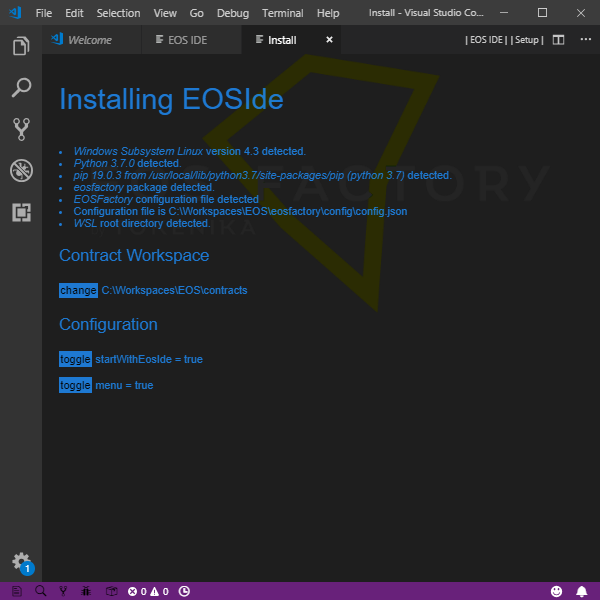
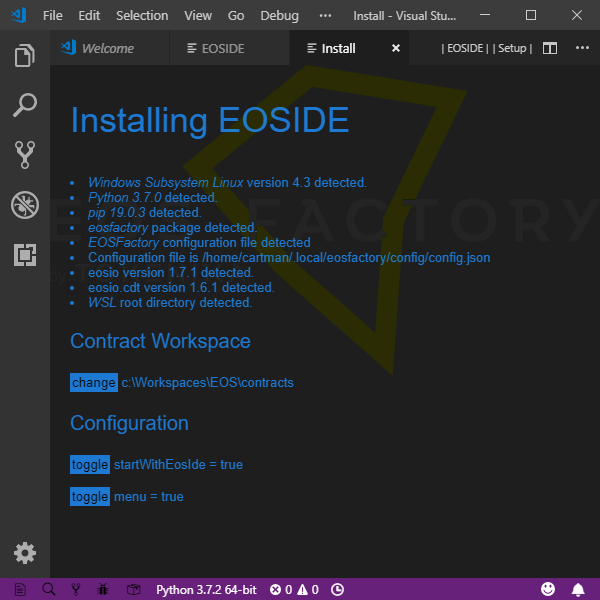
readme images corrected

diff --git a/sikuli_movies/installing.py b/sikuli_movies/installing.py
@@ -42,18 +42,25 @@ mv.delete_contract(os.path.join(CONTRACT_WORKSPACE, CONTRACT_NAME))
 
 narration = ma.init()
 mv.focus_group(1)
+ma.type_setup(narration)
+mv.start_ffmpeg(NAME)
+
+mv.wait(5)
 mv.show_enabled_extensions()
 mv.wait(1)
+
 extension_eoside = mv.wait_image("extension_eoside", mv.region_side_bar)
+extension_eoside.highlight(3, HIGHLIGHT_COLOR)
 extension_eoside.click()
 mv.wait_image("logo_tokenika")
-mv.toggle_side_bar()
-
-ma.type_setup(narration)
-
-mv.start_ffmpeg(NAME)
-mv.wait(5)
 narration.move_right()
+narration.type('''
+# EOSIDE extends VSCode
+
+EOSIDE is available from the VSCode Extension Marketplace.
+''', "w")
+extension_eoside.highlight(3, HIGHLIGHT_COLOR)
+mv.toggle_side_bar()
 narration.set_width()
 
 narration.type('''
@@ -62,7 +69,7 @@ narration.type('''
 
 * Python 3.7 or above.
 * pip 3.7 or above.
-* EOSFactory v3.6 or above.
+* EOSFactory v3.1.0 or above.
 * EOSIO v1.7.1.
 * eosio.cdt v1.6.1.
 

diff --git a/sikuli_movies/macros.py b/sikuli_movies/macros.py
@@ -92,7 +92,7 @@ def ide_view():
                     mv.region_menu_bar, "e", sikuli.Key.CTRL + sikuli.Key.ALT)
 
 
-def init():
+def init(group=1):
     view_explorer()
     mv.toggle_side_bar()
 
@@ -101,7 +101,7 @@ def init():
     mv.wait(1)
     terminal.hide()
 
-    narration = mv.Edit("narration", 1)
+    narration = mv.Edit("narration", group)
     
     return narration
 
@@ -109,7 +109,7 @@ def init():
 def type_setup(narration):
     narration.focus_editor()
     narration.type('''
-## Setup
+# Setup
 
 * eosio version 1.7.1
 * eosio.cdt version 1.6.1
